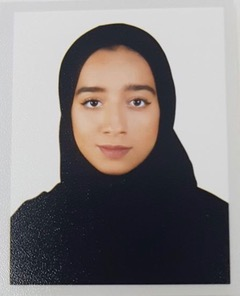
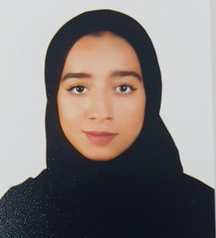
Added Mentor(s)

diff --git a/app.js b/app.js
@@ -62,28 +62,31 @@ var mentorList = [
 
 //CURRENT Mentors
 
+{name:"Songyue", country:"China",position:"current", bio:"Songyue is a senior studying Social Research & Public Policy at New York University Abu Dhabi (NYUAD). Originally from China, she has studied and lived in multiple countries including Ghana, the United States, Britain, and the UAE. She is passionate about entrepreneurship and has had experiences in various industries, including retail, financial advisory, consulting, NGOs, and banking. At school, she has co-directed Girls’ Education Network, a student-initiated organization focusing on women leadership development. She has also organized several major cultural events in collaboration with NYUAD office of Spiritual Life & Intercultural Education. Songyue enjoys scuba diving, loves house music, and has recently found her passion in baseball. Most importantly, she welcomes honest conversations and never has anything to hide. Go talk to her!", image:"img/mentors/currentMentors/SongyueXu.jpg"},
+
+
 {name:"Saif", country:"United Arab Emirates",position:"current", bio:"Saif Almehairi is an Emirati who has lived most of his life in Abu Dhabi, the capital of the United Arab Emirates. He attended Abu Dhabi International Private School as an Advanced American curriculum candidate. He is currently a sophomore at New York University Abu Dhabi pursuing a major in Economics and a double minor in Applied Mathematics and Political Science. Regarding his academic interests, he enjoys studying all of the social sciences as he believes they serve as a bridge between the humanities and the sciences. Outside the classroom, Saif enjoys playing football and traveling. He played in several football clubs, including his high school football team, where he served as captain for most of his playing career. In addition, he has volunteered in those clubs to serve as a coach for the younger players (aged 5-9). Saif is extremely excited to take on this new volunteering opportunity as he believes that his college application process and extensive understanding of the system will serve as an invaluable asset for his assigned mentee/s. He hopes that his mentee/s is excited as he is!", image:"img/mentors/currentMentors/saif.jpg"},
 
-/*
-{name:"Amina", country:"Bosnia",position:"current", bio:"Amina comes from a small heart-shaped land called Bosnia and Herzegovina. She is majoring in Social Research and Public Policy and plans to specialize in Public Health and Anthropology. As someone who comes from a less developed country, education has always been immensely important to her as it has truly been a transformational element in her life. And that is exactly why she wants to contribute and help others in their journey. Throughout her experience, she has been involved in many organizations. She has previously volunteered in SOS Kindergarten as an English language tutor. At NYUAD, she is engaged in Girls Education Network, where she facilitates weekly workshops for young girls from Abu Dhabi. As evidenced by her commitment to service, she finds particular pleasure in doing community work and working with children. She believes this has shaped her into who she is today and constitutes a big part of her identity. She enjoys working with others and being in contact with people because she gets a chance to learn and help others!",image:""},
-*/
 
-/*
-{name:"Atoka Jo", country:"Japan",position:"current", bio:"Atoka Jo is a junior at New York University Abu Dhabi, majoring in Social Research and Public Policy, and minoring in Theater and Interactive Media. Because of her passion in education, she created a summer school for Japanese middle school students to promote active-style and English-based learning in Japan. In Abu Dhabi, she was a facilitator in Girls Education Network, where she helped organize workshops for young girls in Abu Dhabi. In Buenos Aires, she tutored English and Math for children of low-income families and in Accra, she taught Japanese culture, English, and Math at a local Ghanaian public school. She also advocated for education for all during her internship at the United Nations in New York. She hopes to meet courageous young Africans and bring the best out of her mentees through CAMA.", image:""},
-*/
+
+
+{name:"Atoka Jo", country:"Japan",position:"current", bio:"Atoka Jo is a junior at New York University Abu Dhabi, majoring in Social Research and Public Policy, and minoring in Theater and Interactive Media. Because of her passion in education, she created a summer school for Japanese middle school students to promote active-style and English-based learning in Japan. In Abu Dhabi, she was a facilitator in Girls Education Network, where she helped organize workshops for young girls in Abu Dhabi. In Buenos Aires, she tutored English and Math for children of low-income families and in Accra, she taught Japanese culture, English, and Math at a local Ghanaian public school. She also advocated for education for all during her internship at the United Nations in New York. She hopes to meet courageous young Africans and bring the best out of her mentees through CAMA.", image:"img/mentors/currentMentors/Atoka.jpg"},
+
 
 {name:"Munib", country:"Bosnia",position:"current", bio:"Munib Mešinović comes from Travnik, a small town in the middle of Bosnia and Herzegovina, isolated from many kinds of “international” education except the one so many take for granted: the Internet. Through this multifaceted tool, Munib has been able to inform himself of and partake in many opportunities such as volunteering with DEAF (Federal Organization of the Hearing Impaired), absorbing educational materials such as books and videos, as well as applying to colleges such as New York University Abu Dhabi, which he now calls home. In addition to surfing on the Internet for valuable information, Munib spends most of his time reading, swimming, and hiking. However, a particular passion of his has been tutoring and teaching. As a CAMA mentor, he wants to combine this interest with the aforementioned potential of the internet in the hopes of guiding students who are as eager to learn as he is. Munib is currently studying Electrical Engineering and working on a project for the iGEM Bioengineering Competition, in which he is helping to build a cheap, fast, and reliable food-pathogen detection device.", image:"img/mentors/currentMentors/MunibMesinovic.jpg"},
 
-/*
-{name:"Otelo", country:"USA",position:"current", bio:"Otelo Reggy-Beane is a U.S. American second-year student at New York University Abu Dhabi interested in the intersection of community and infrastructure in our cities. He is majoring in Social Research and Public Policy with a minor in Civil Engineering to better understand sustainable and inclusive urban development. His passion for public service inspired him to find opportunities to grow as an advocate of change. Otelo’s focus on urbanization began during a summer internship with a Portland city commissioner where he conducted policy research on affordable housing. He learned about the inequalities affecting many communities of color as well as the importance of equitable representation and participation in government. Since then, Otelo has worked for politicians on both ends of the American ideological spectrum, including the Mayor of Portland, Oregon and the Governor of Utah. When he is not traveling, Otelo enjoys playing basketball, watching binge-worthy Netflix Originals and building his Kenya-based social enterprise, Umoja Beads. In the future, Otelo aspires to be an elected official advocating for and empowering underprivileged communities around the world. Otelo believes higher education has been excellent for his exploration and growth and looks forward to leading students to their full academic potential.", image:""},
-*/
+
+{name:"Otelo", country:"USA",position:"current", bio:"Otelo Reggy-Beane is a U.S. American second-year student at New York University Abu Dhabi interested in the intersection of community and infrastructure in our cities. He is majoring in Social Research and Public Policy with a minor in Civil Engineering to better understand sustainable and inclusive urban development. His passion for public service inspired him to find opportunities to grow as an advocate of change. Otelo’s focus on urbanization began during a summer internship with a Portland city commissioner where he conducted policy research on affordable housing. He learned about the inequalities affecting many communities of color as well as the importance of equitable representation and participation in government. Since then, Otelo has worked for politicians on both ends of the American ideological spectrum, including the Mayor of Portland, Oregon and the Governor of Utah. When he is not traveling, Otelo enjoys playing basketball, watching binge-worthy Netflix Originals and building his Kenya-based social enterprise, Umoja Beads. In the future, Otelo aspires to be an elected official advocating for and empowering underprivileged communities around the world. Otelo believes higher education has been excellent for his exploration and growth and looks forward to leading students to their full academic potential.", image:"img/mentors/currentMentors/Otelo.jpg"},
+
 
 {name:"Maitha", country:"United Arab Emirates",position:"current", bio:"Maitha AlSuwaidi is a political science student at New York University Abu Dhabi (NYUAD). Other than her passion for politics, she also enjoys reading and writing articles, as she writes for Sail E-Magazine. She is evidently passionate about cultural engagement, having interned in the Cultural Engagement Program in NYUAD. She also possesses an undeniable passion for the arts, as she has been actively creating art in addition to interning in NYUAD’s Art Gallery. Having volunteered in an international competition for people with disabilities and participated in the World Travel Market conference representing the UAE alongside many others, Maitha values being an active part of the larger community, by contributing to that community and also benefiting from it through the unique relationships she makes. She views and represents herself as an advocate for mental health awareness, cultural diversity and engagement, and disability activism.", image:"img/mentors/currentMentors/maitha.jpeg"},
 
 
-/*
-{name:"Amna", country:"United Arab Emirates",position:"current", bio:"Amna is a Sophomore from the United Arab Emirates at New York University Abu Dhabi. She is majoring in Political Science and Art History with a concentration in Legal Studies. Amna enjoys intercultural conversations, music, and art. By the time she graduates, she hopes to gain a better understanding of regional and international politics, the role of culture in the arts, and above all, the UAE’s position in the realm of international relations. After NYUAD, she wishes to continue studying political science and diplomacy, and find a career that will combine her passion for politics, arts, and cultural diversity. Amna also enjoys quiet mornings with a good cup of coffee and an engaging book as well as thought-provoking conversations with her friends.", image:""},
-*/
+{name:"Amina", country:"Bosnia",position:"current", bio:"Amina comes from a small heart-shaped land called Bosnia and Herzegovina. She is majoring in Social Research and Public Policy and plans to specialize in Public Health and Anthropology. As someone who comes from a less developed country, education has always been immensely important to her as it has truly been a transformational element in her life. And that is exactly why she wants to contribute and help others in their journey. Throughout her experience, she has been involved in many organizations. She has previously volunteered in SOS Kindergarten as an English language tutor. At NYUAD, she is engaged in Girls Education Network, where she facilitates weekly workshops for young girls from Abu Dhabi. As evidenced by her commitment to service, she finds particular pleasure in doing community work and working with children. She believes this has shaped her into who she is today and constitutes a big part of her identity. She enjoys working with others and being in contact with people because she gets a chance to learn and help others!",image:"img/mentors/currentMentors/Amina.jpg"},
+
+
+{name:"Amna", country:"United Arab Emirates",position:"current", bio:"Amna is a Sophomore from the United Arab Emirates at New York University Abu Dhabi. She is majoring in Political Science and Art History with a concentration in Legal Studies. Amna enjoys intercultural conversations, music, and art. By the time she graduates, she hopes to gain a better understanding of regional and international politics, the role of culture in the arts, and above all, the UAE’s position in the realm of international relations. After NYUAD, she wishes to continue studying political science and diplomacy, and find a career that will combine her passion for politics, arts, and cultural diversity. Amna also enjoys quiet mornings with a good cup of coffee and an engaging book as well as thought-provoking conversations with her friends.", image:"img/mentors/currentMentors/Amna.jpg"},
+
 
 /*
 {name:"Aya", country:"Morocco",position:"current", bio:"Aya Bouhelal is a sophomore at New York University Abu Dhabi who intends to double major in philosophy and psychology.  Before attending college, she graduated from a Moroccan high school in which she pursued a mostly scientific path. Being aware of how unfamiliar students from the MENA region are with the application process, she made herself available to answer any worries or questions they might have. Over her high school and her freshman years, Aya has often taken part in volunteering programs through which she aimed to share her energy and her knowledge. From assisting the mentally disabled to offering SAT classes to her younger peers, her experience enabled her to meet different people with different needs.  Most of Aya’s hobbies are related to Art.  Aya does photography, in both personal and professional settings. She is also passionate about music. She plays the guitar and recently took up the clarinet.", image:""},
@@ -91,7 +94,6 @@ var mentorList = [
 
 {name:"Nadia", country:"USA",position:"current", bio:"Nadia Hussein is a second-year student at New York University Abu Dhabi majoring in Political Science with minors in Legal Studies and Arabic. She is first-generation American of Indian-Guyanese origin, born in New York City and raised in the small town of East Stroudsburg in the state of Pennsylvania. Nadia is interested in social justice and human rights movements both in the U.S. and international context. She intends to pursue a law degree and career involving international human rights law. At NYUAD, she is involved in Students for Justice in Palestine, Africa Global, and currently serves as Co-President of the Muslim Student Association. Apart from her academics, Nadia enjoys playing and watching tennis, listening to music, preferably from different cultures and genres, and exploring different restaurants and cuisines. Her interests also include fashion, pop culture, comedy - especially political satire - reading the news, and catching up with current events. ", image:"img/mentors/currentMentors/nadia.jpg"},
 
-{name:"Songyue", country:"China",position:"current", bio:"Songyue is a senior studying Social Research & Public Policy at New York University Abu Dhabi (NYUAD). Originally from China, she has studied and lived in multiple countries including Ghana, the United States, Britain, and the UAE. She is passionate about entrepreneurship and has had experiences in various industries, including retail, financial advisory, consulting, NGOs, and banking. At school, she has co-directed Girls’ Education Network, a student-initiated organization focusing on women leadership development. She has also organized several major cultural events in collaboration with NYUAD office of Spiritual Life & Intercultural Education. Songyue enjoys scuba diving, loves house music, and has recently found her passion in baseball. Most importantly, she welcomes honest conversations and never has anything to hide. Go talk to her!", image:"img/mentors/currentMentors/SongyueXu.jpg"},
 
 {name:"Kevin", country:"Taiwan",position:"current", bio:"Kevin Ke is a rising Junior studying at NYU Abu Dhabi, majoring in Theatre and Economics. He was born in the countryside of New York before moving to Taiwan soon after, which has been his home ever since. He is particularly interested in exploring experimental movement-based theatre, because it ties into dancing, which is one of his hobbies. Additionally, he is trying out acting and devising as other potential directions. On campus, Kevin led the dance student organization, Attitude, and instructed a weekly breakdancing class for fellow peers. He is also pioneering the development of dance theory through Body Voices, a partner organization that focuses on movement as communication. Along with a group of theatre enthusiast friends, he is also a member of an independent theatre-making group, the Theater Collective. Lastly, he currently works as an Assistant Director for Online Model United Nations, a multinational non-profit organization that aims to bring MUN to students across the world, online. Other hobbies that he enjoys include choreography, video games, watching theatre, and public speaking. He look forwards to working with CAMA and meeting you!", image:"/img/mentors/currentMentors/KevinKe.jpg"},
 
@@ -127,9 +129,18 @@ var mentorList = [
 {name:"Odera", country:"Nigeria",position:"current", bio:"Odera Chiamaka Ebeze is a rising Senior at NYUAD currently majoring in Political Science with minors in Legal Studies and Business Management. She is a proud Nigerian and has experiences studying IB in Canada. Some of her interests include watching tv series (Love and Hip Hop) included and videos of puppies on YouTube. Her goal after NYUAD is to attend Law School. She dreams of either being the President of Nigeria or a Diplomat. Also, she secretly wants to learn Spanish and Sign Language and can't wait to meet her new mentees!! Something people don't know about me: I have a birthmark in the middle of my head (it's a bald spot 😁)", image:"/img/mentors/currentMentors/---.jpg"},
 */
 
+
+
+{name:"Simran", country:"Jamaica",position:"current", bio:" Simran is a Jamaican junior currently studying Psychology at New York University Abu Dhabi. Since she was fifteen, Simran has been involved in several community service initiatives geared towards helping youth in and outside of her country. Currently, her main interests lie within the fields of child development, education and psychology. She also loves to eat food from various cuisines, read novels in parks, take long walks, binge-watch shows on Netflix and of course, nap. She is very excited to be a part of the CAMA team and cannot wait to share some of her knowledge about the college admissions process.",image:"/img/mentors/currentMentors/Simran.jpeg"},
+
 /*
 {name:"-------", country:"---------",position:"current", bio:"I have a possession of the English language that empowers me to be creative. Without this stronghold I wouldn't be the same pupil, artist, or intellectual that I am today. I am also passionate about social issues as I am culturally analytical of my own Emirati society. Between Music and Political Science, I find myself emerging as a writer--a liberating path. As an upcoming senior, I am now interested in journalism, music, and art production. Mentorship is valuable, and it has provided me with a potential career that the little girl who struggled desperately in class could have never predicted",image:"/img/mentors/currentMentors/------.jpg"},
 */
+
+
+{name:"Kristos", country:"Ghana",position:"current", bio:"Kristos is a rising sophomore specializing in cognitive sciences in Biology and a minor in Psychology. He reflects a varied personality of openness and conscientiousness and enjoys music, dancing and debating a lot. As a member of the global community in NYUAD, he is intrigued by how language came to be a defining human characteristic. He is passionate about solving global issues with identity and public health and wants to be a multilingual.",image:"/img/mentors/currentMentors/Kristos.jpg"}
+
+
 
 
 ];
